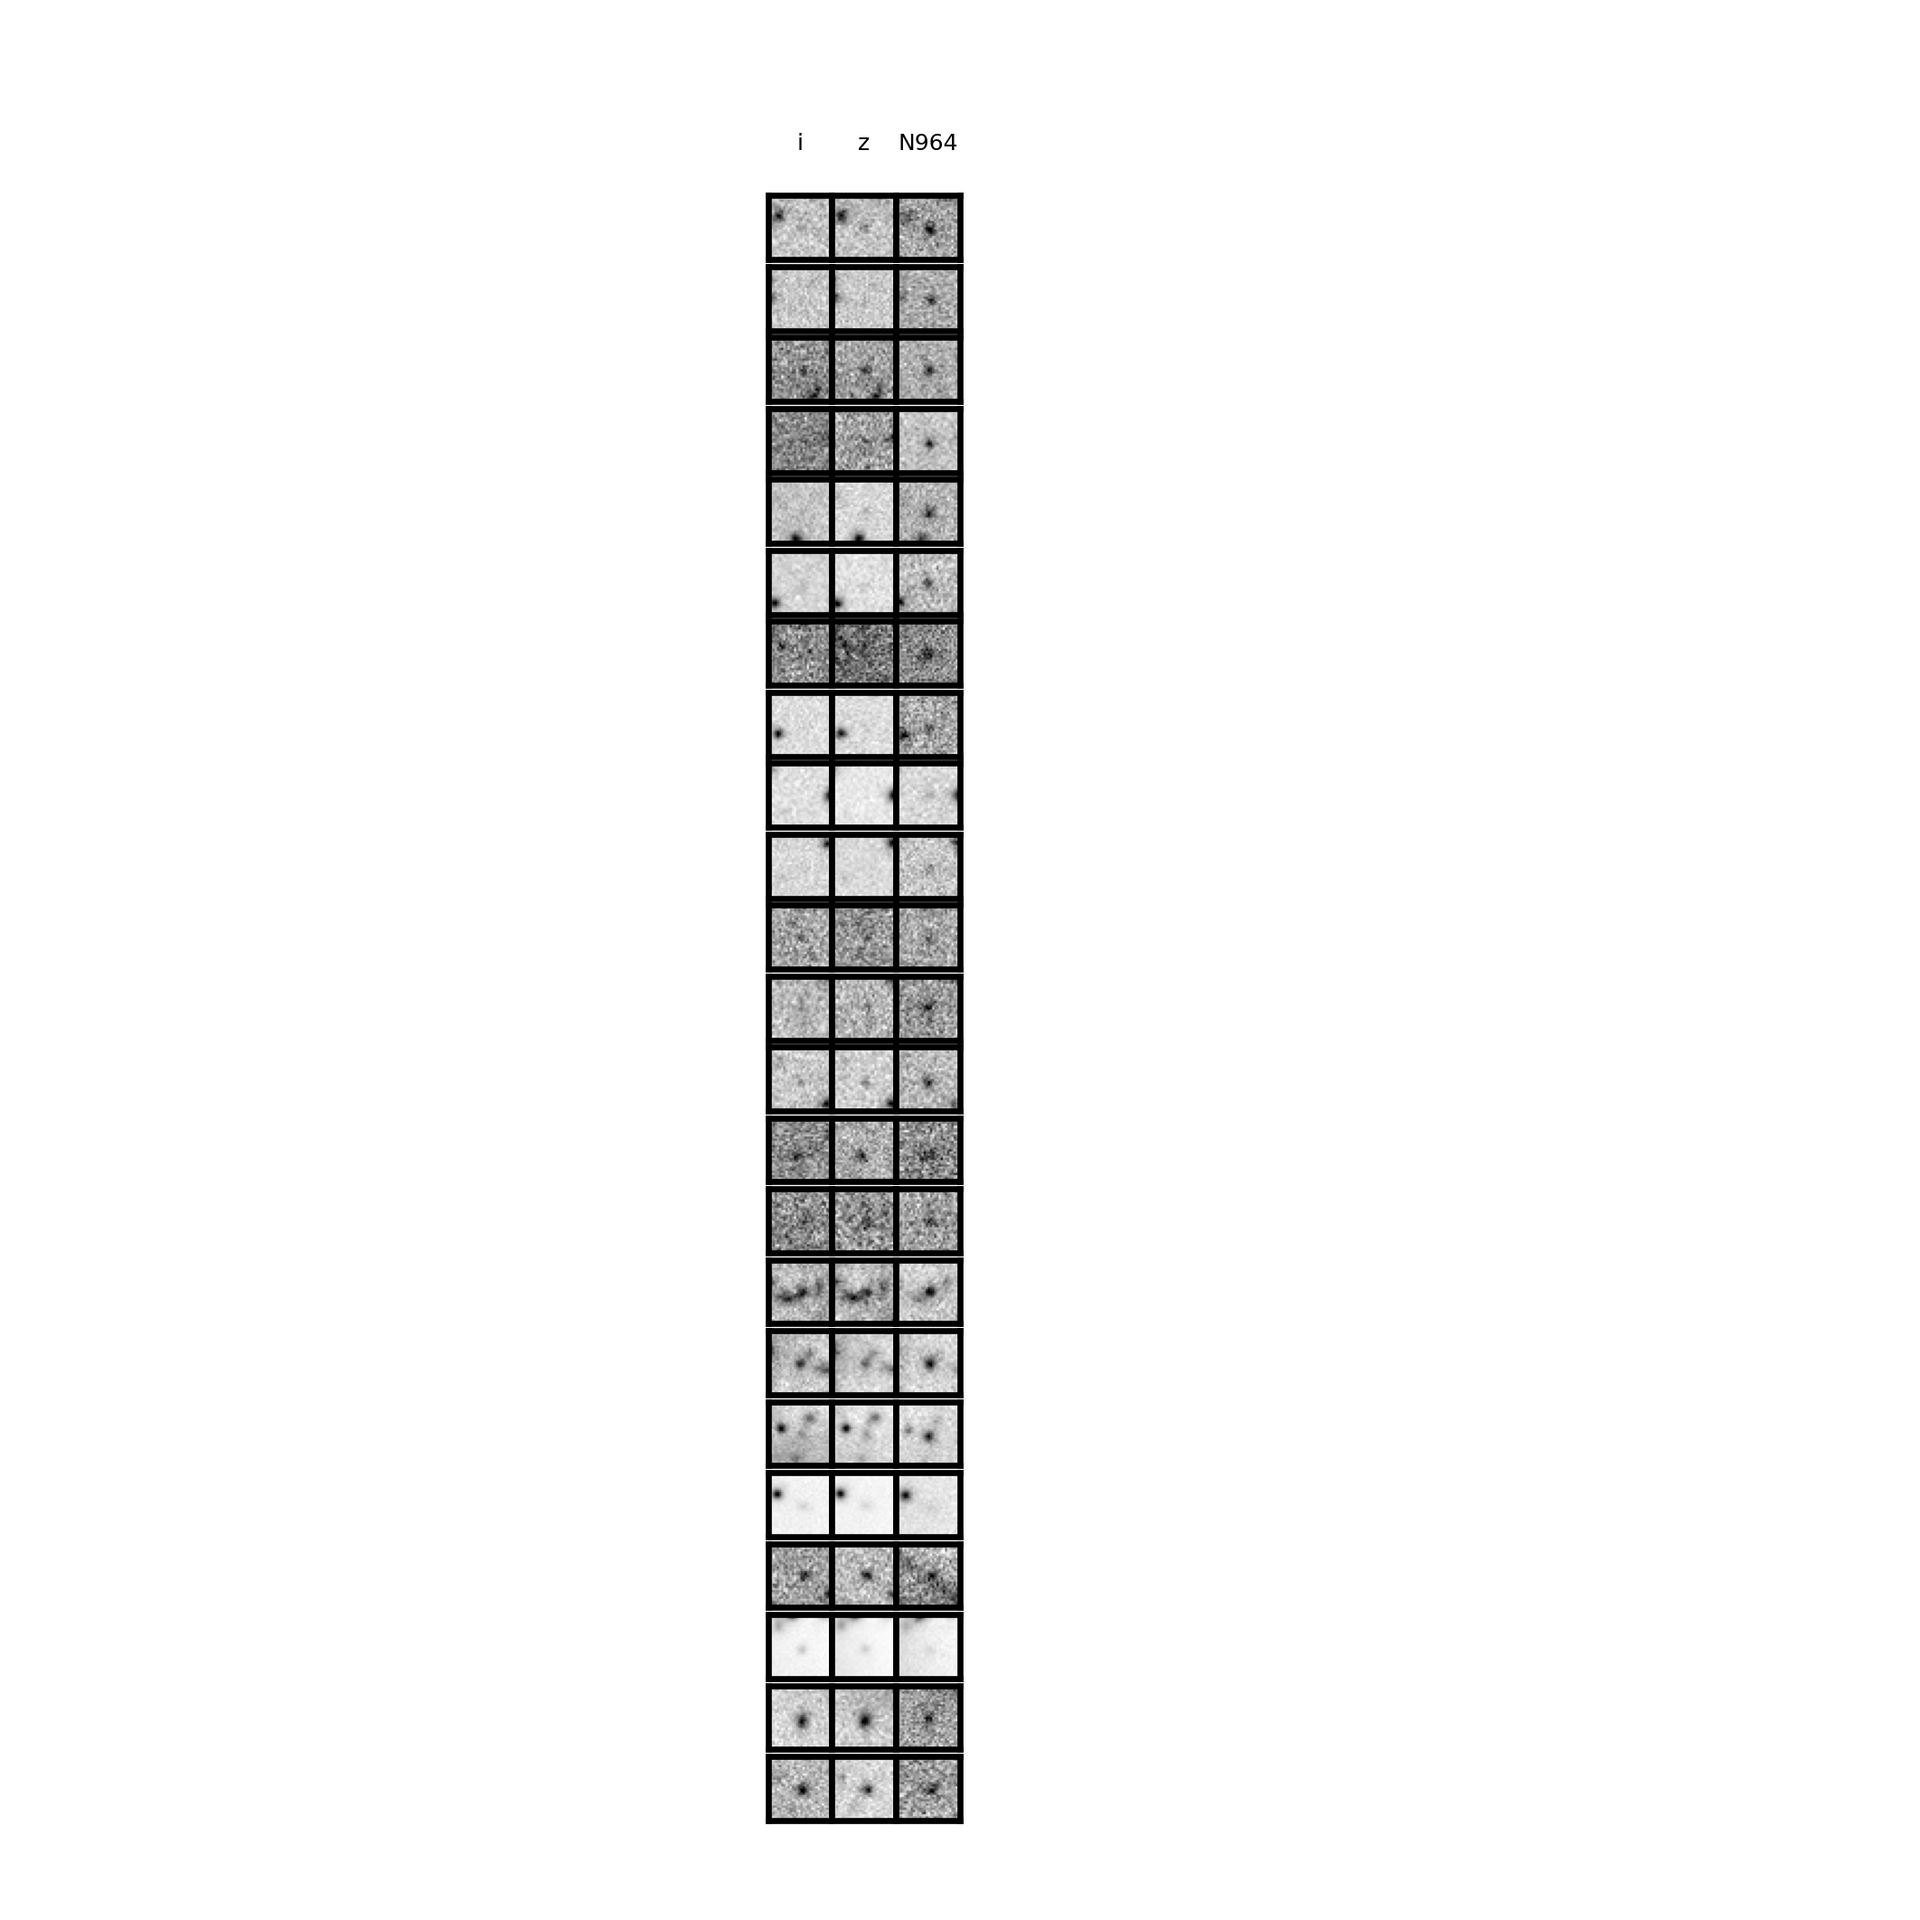
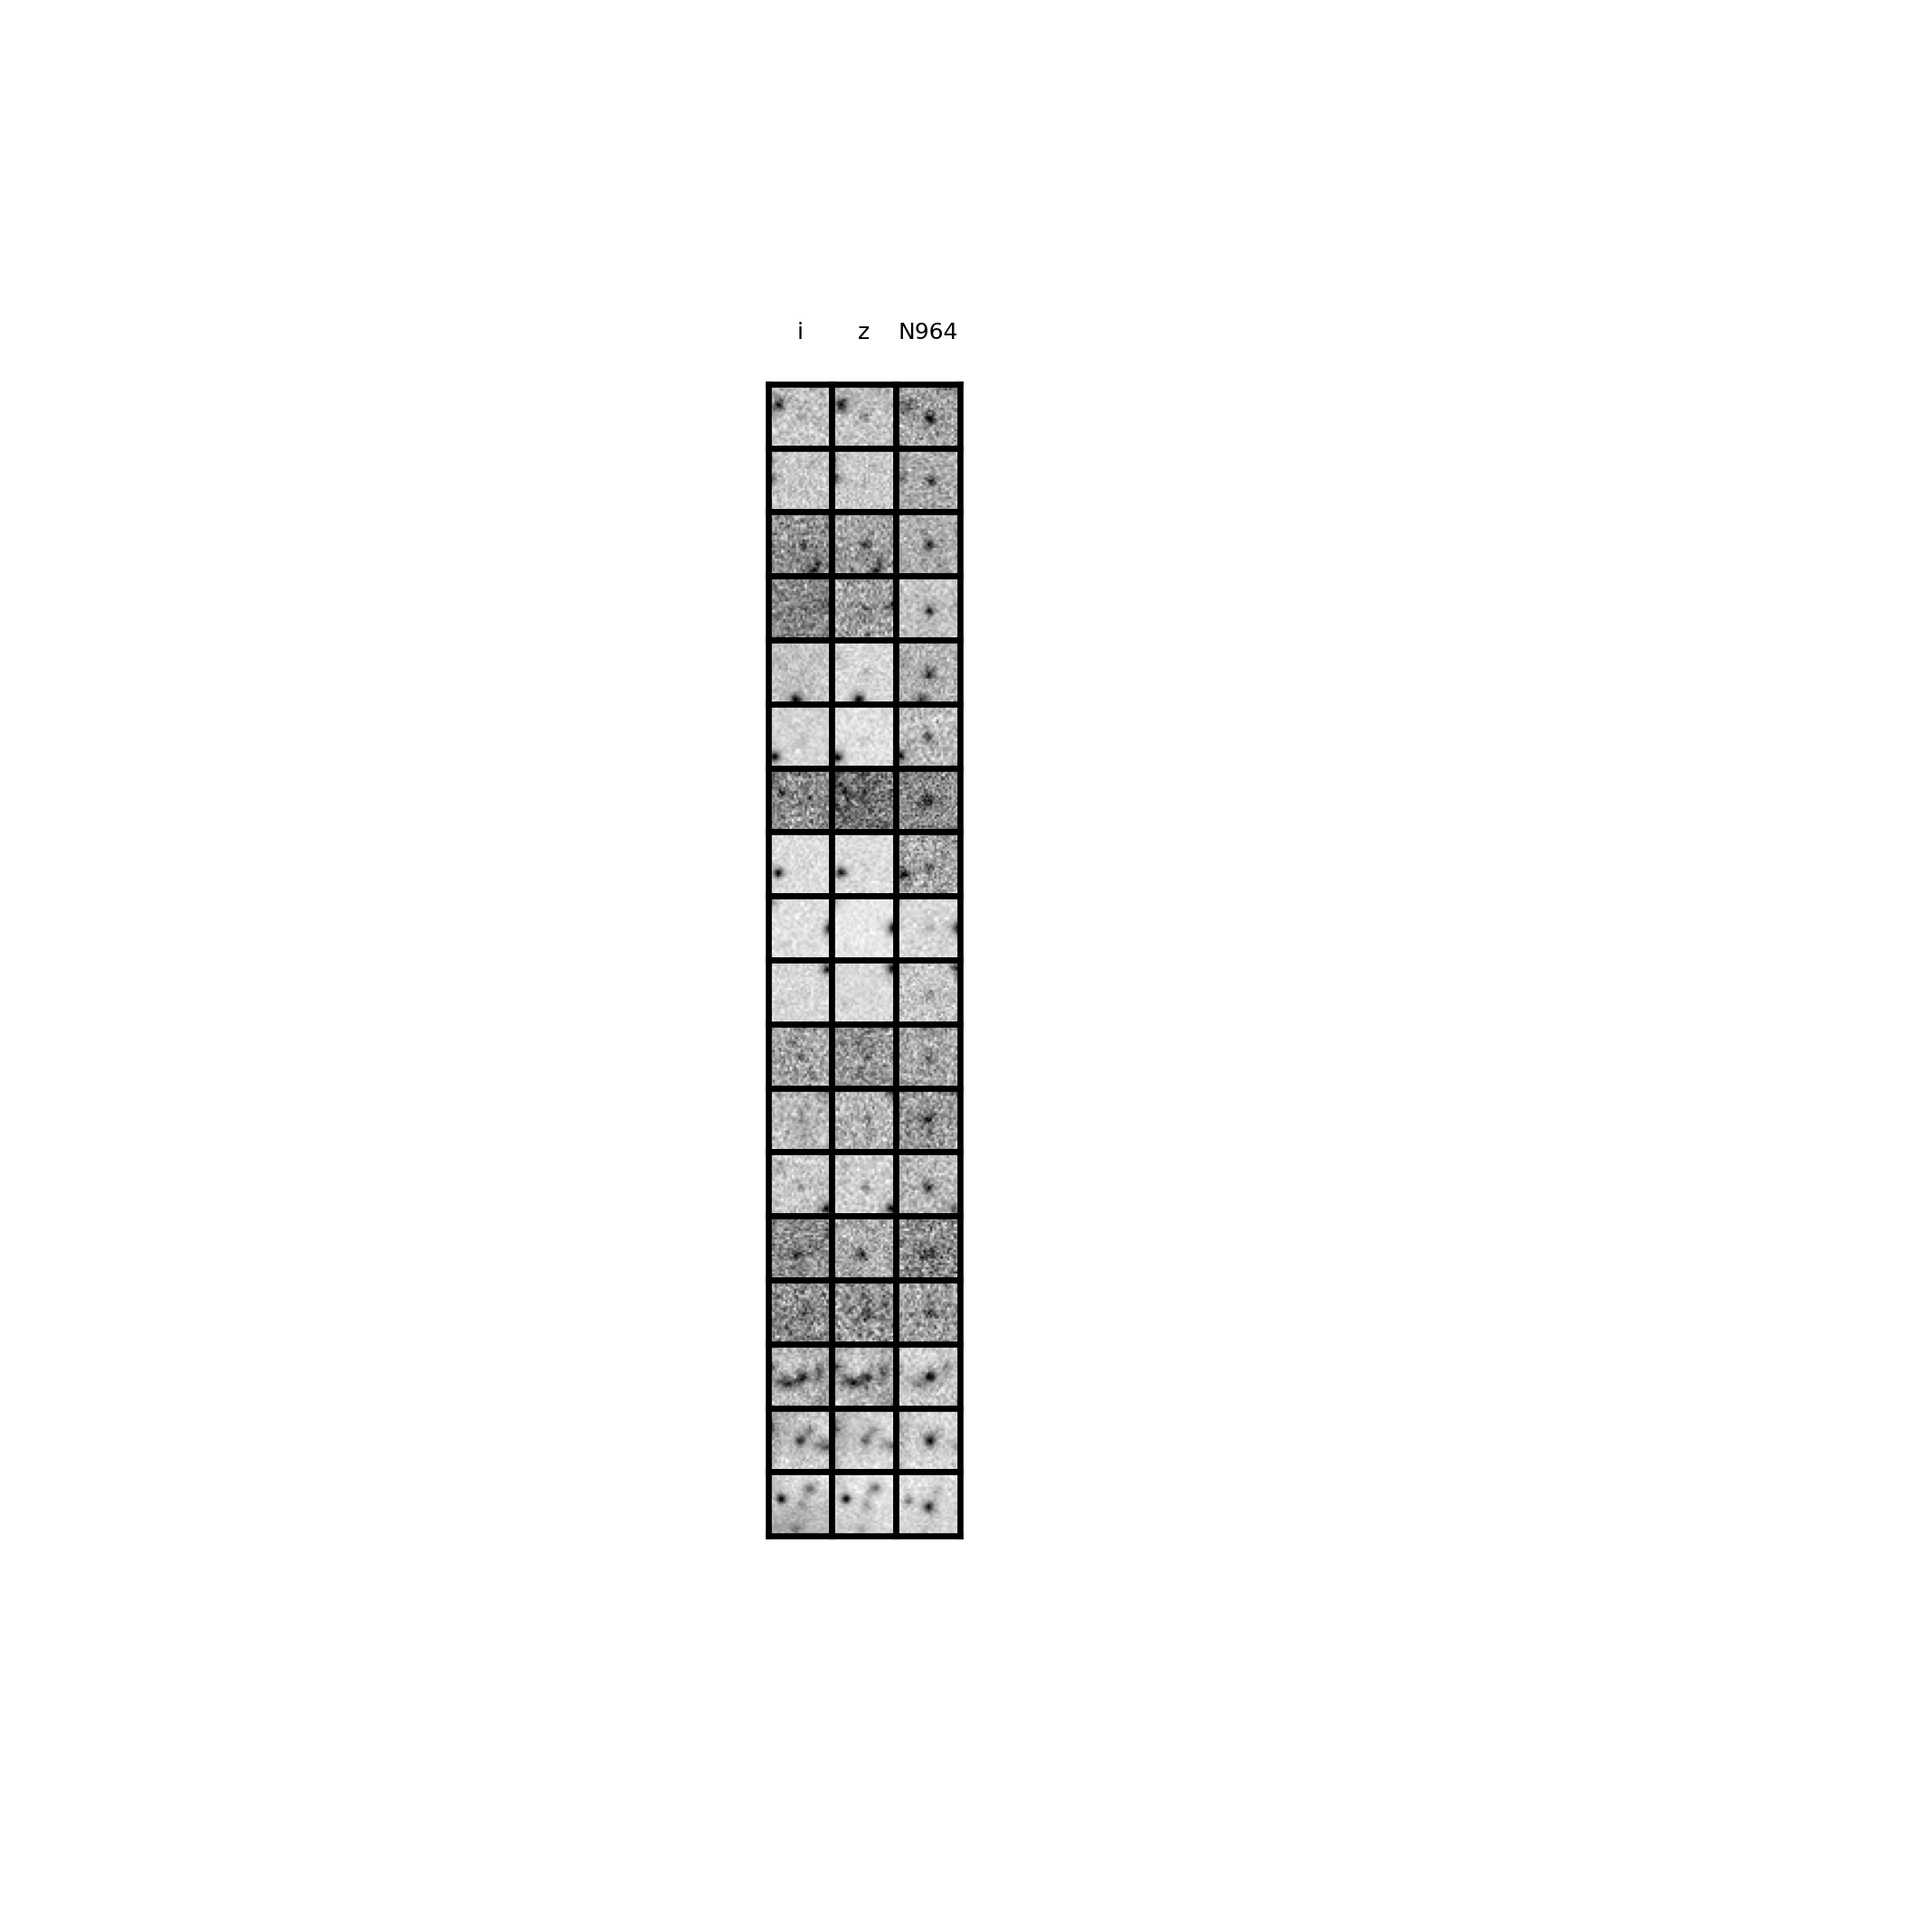
removing the rejects from candidates

Changed region(s): [[0.3729, 0.0621, 0.5282, 0.9633]]

diff --git a/plot_postage_stamps.py b/plot_postage_stamps.py
@@ -30,7 +30,7 @@ if __name__ == '__main__':
 
     fig = plt.figure(figsize = (3.54, 3.54), dpi = 600)
     gs = fig.add_gridspec(len(ra), 3, hspace=0, wspace=0, width_ratios=[1, 1, 1],
-                           top=0.90, bottom=0.05, left=0.4, right=0.5)
+                           top=0.80, bottom=0.20, left=0.4, right=0.5)
     axes = gs.subplots(sharex='col', sharey='row')
     for i, r_a in enumerate(ra):
         for j in range(3):
